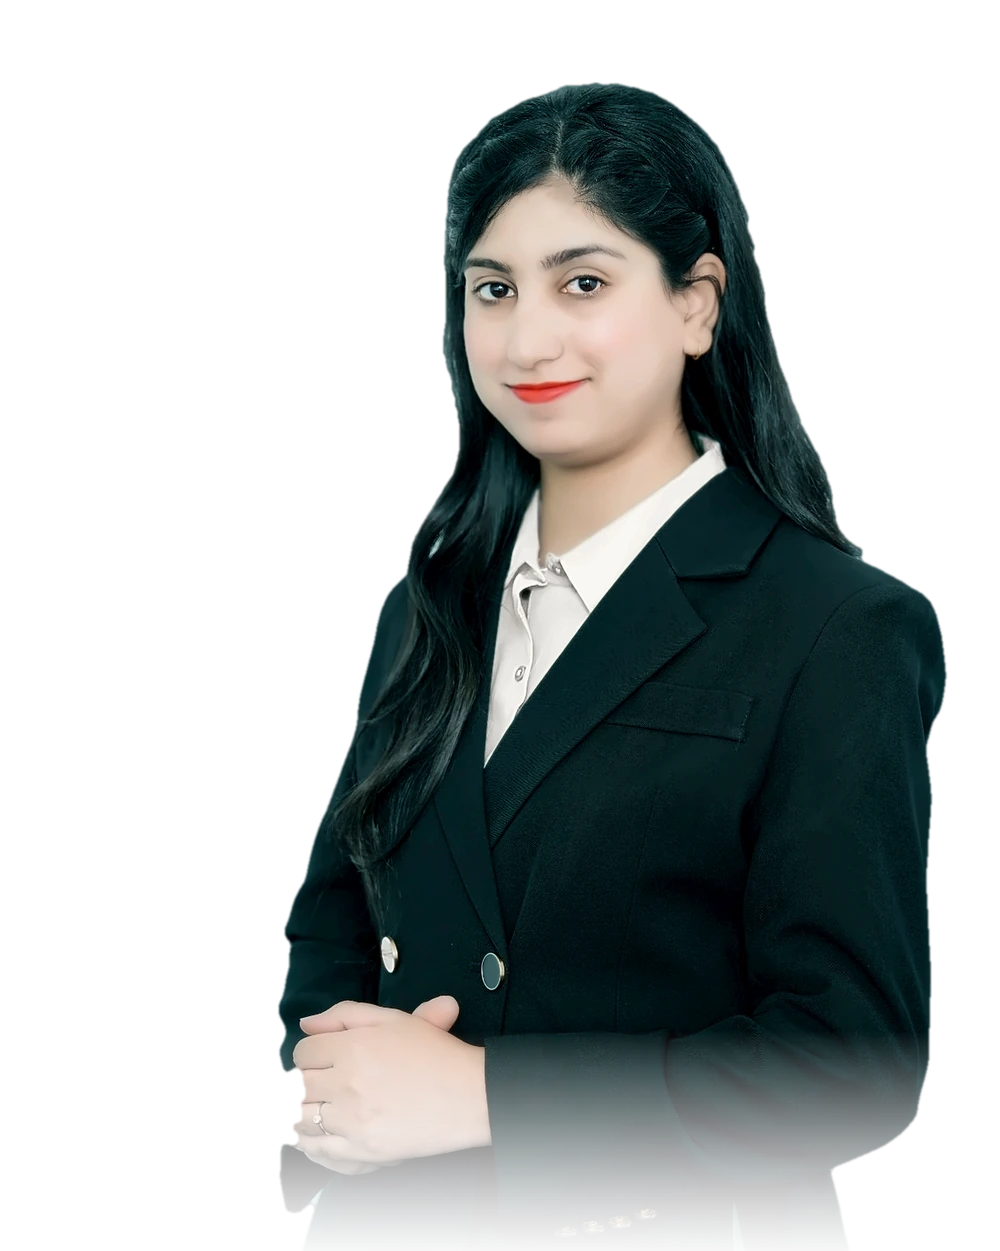
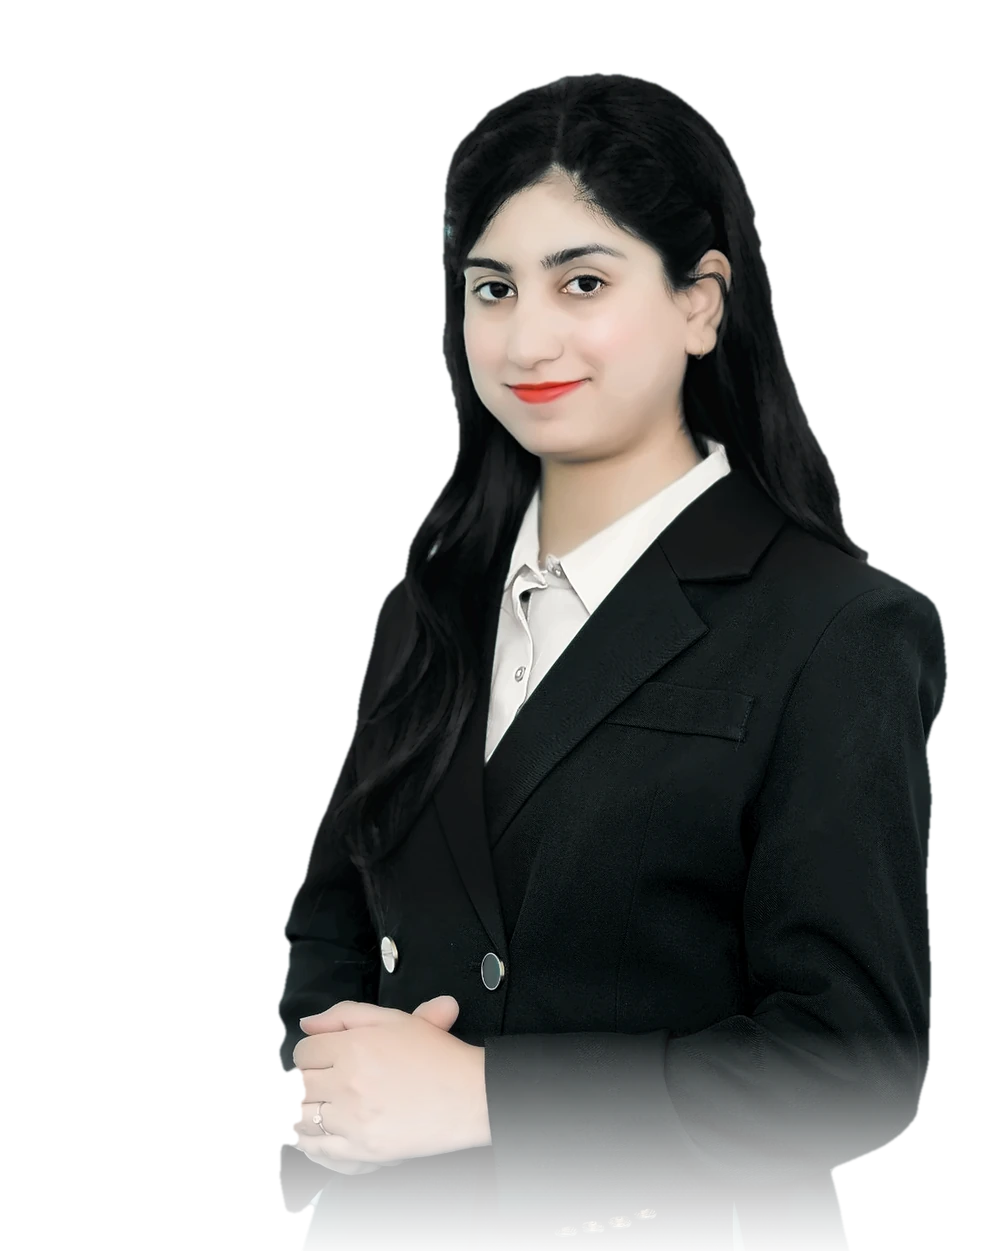
Update portrait

diff --git a/index.html b/index.html
@@ -667,7 +667,7 @@ main, .footer { position: relative; z-index: 1; }
         <p class="statement" data-scrub>For nearly five years I've built software that moves money, keeps compliance teams in control and sells property: AML monitoring, enterprise ERP, and launch platforms for projects by <em>Emaar, Modon and Azizi.</em></p>
         <figure class="portrait" data-reveal>
           <div class="portrait-arch">
-            <img class="portrait-img" data-depth="-34" src="kaynat-portrait-1000.webp" srcset="kaynat-portrait-560.webp 560w, kaynat-portrait-1000.webp 1000w" sizes="(max-width: 1023px) 80vw, 490px" width="1000" height="1251" loading="lazy" alt="Kaynat Saeed, full-stack developer in Dubai">
+            <img class="portrait-img" data-depth="-34" src="kaynat-portrait-1000.webp?v=4" srcset="kaynat-portrait-560.webp?v=4 560w, kaynat-portrait-1000.webp?v=4 1000w" sizes="(max-width: 1023px) 80vw, 490px" width="1000" height="1251" loading="lazy" alt="Kaynat Saeed, full-stack developer in Dubai">
           </div>
           <figcaption class="portrait-tag glass"><span class="pulse" aria-hidden="true"></span><span>Kaynat Saeed<small>Full-stack developer, Dubai</small></span></figcaption>
         </figure>
